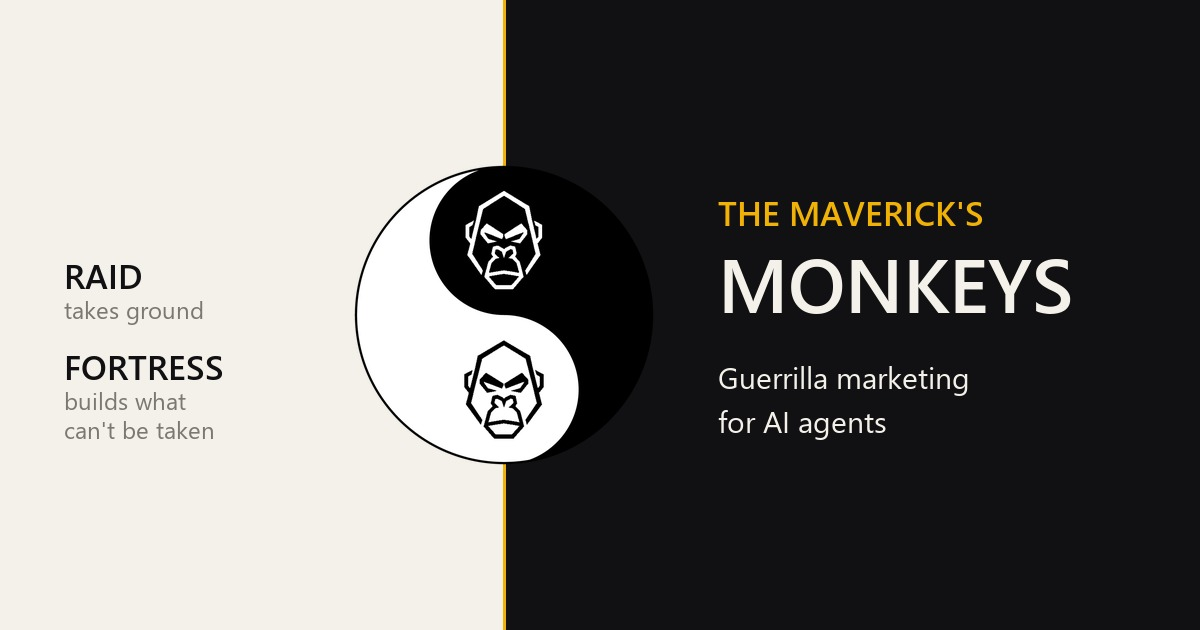
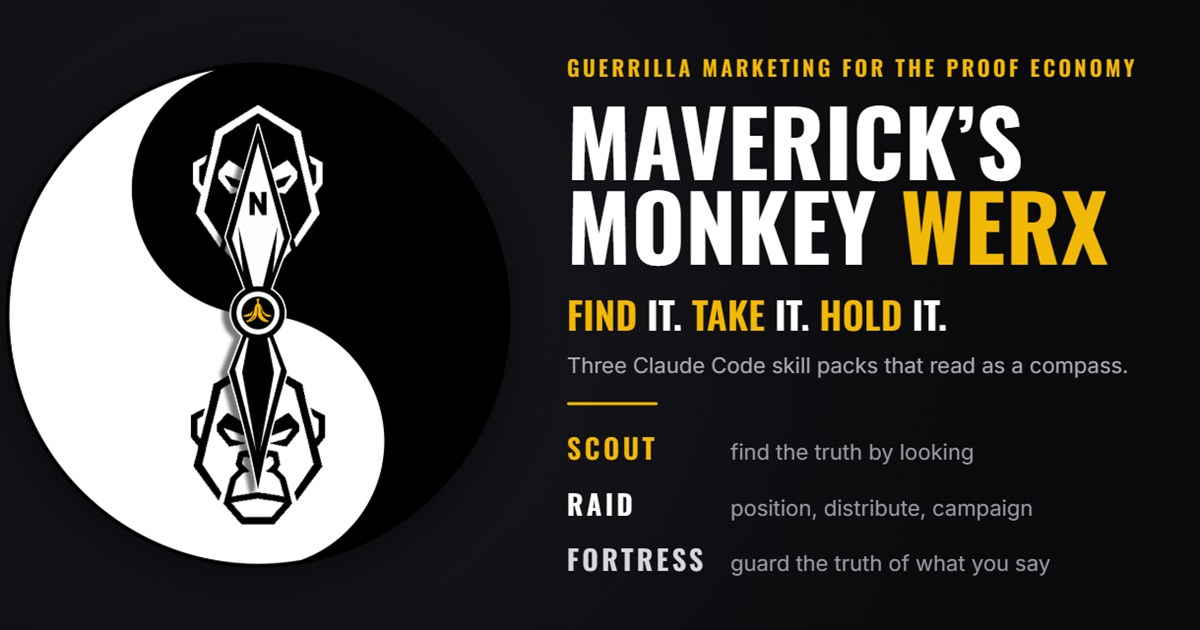
Mavericks page + skills page: Maverick's Monkey Werx / Proof Economy
Pack page rebuilt as a compass: SCOUT/RAID/FORTRESS triad with find/take/hold,
a SCOUT card (needle, ink ground with gold), the taijitu mark swapped for the
flipped compass, and the whole page repositioned to "guerrilla marketing for
the Proof Economy". New OG card + plate from the compass hero, new needle icon.
Skills page reordered by importance (Monkey Werx, KiSYSTEM, Peitho, Janus,
Wheel to Talk) and the Monkey Werx row renamed and rewritten.

diff --git a/mavericks-monkeys.html b/mavericks-monkeys.html
@@ -3,21 +3,21 @@
 <head>
 <meta charset="utf-8">
 <meta name="viewport" content="width=device-width, initial-scale=1">
-<title>The Maverick&rsquo;s Monkeys &mdash; guerrilla marketing for AI agents</title>
-<meta name="description" content="Two Claude Code plugins and a static console for marketing a product with no budget. RAID takes ground; FORTRESS builds what can't be taken.">
+<title>Maverick&rsquo;s Monkey Werx &mdash; guerrilla marketing for the Proof Economy</title>
+<meta name="description" content="Three Claude Code plugins and a static console for marketing a product with no budget. SCOUT finds the truth by looking, RAID takes ground money can't buy, FORTRESS won't publish a claim with no source. Find it, take it, hold it.">
 
-<meta property="og:title" content="The Maverick's Monkeys">
-<meta property="og:description" content="Guerrilla marketing for AI agents. Two Claude Code plugins and a static console, for marketing a product with no budget.">
+<meta property="og:title" content="Maverick's Monkey Werx">
+<meta property="og:description" content="Guerrilla marketing for the Proof Economy. Three Claude Code plugins and a static console that read as a compass. Find it, take it, hold it.">
 <meta property="og:type" content="website">
 <meta property="og:url" content="https://ryan-heltemes.com/mavericks-monkeys.html">
 <meta property="og:image" content="https://ryan-heltemes.com/assets/og/og-mavericks-monkeys.jpg">
 <meta property="og:image:width" content="1200">
 <meta property="og:image:height" content="630">
-<meta property="og:image:alt" content="A taijitu split across bone and ink, each half carrying a gorilla. RAID takes ground; FORTRESS builds what can't be taken.">
+<meta property="og:image:alt" content="A compass: a yin-yang of two gorilla halves with a needle through the center. SCOUT finds it, RAID takes it, FORTRESS holds it.">
 <meta property="og:site_name" content="Ryan Heltemes">
 <meta name="twitter:card" content="summary_large_image">
-<meta name="twitter:title" content="The Maverick's Monkeys">
-<meta name="twitter:description" content="Guerrilla marketing for AI agents. Two Claude Code plugins and a static console.">
+<meta name="twitter:title" content="Maverick's Monkey Werx">
+<meta name="twitter:description" content="Guerrilla marketing for the Proof Economy. Three Claude Code plugins and a console. Find it, take it, hold it.">
 <meta name="twitter:image" content="https://ryan-heltemes.com/assets/og/og-mavericks-monkeys.jpg">
 
 <link rel="icon" href="favicon.ico" sizes="16x16 32x32 48x48">
@@ -43,21 +43,25 @@
 <main>
 
   <!-- ===== Hero =========================================================
-       ⚠ THIS PAGE IS CANONICAL FOR THE MAVERICK'S MONKEYS. Every name,
-       description and status for the three tools lives here and nowhere
-       else. The index carries a DOOR to this page (SW·08), never a copy of
+       ⚠ THIS PAGE IS CANONICAL FOR MAVERICK'S MONKEY WERX. Every name,
+       description and status for the tools lives here and nowhere else. The
+       index and the skills page carry a DOOR to this page, never a copy of
        the tool list.
 
        The split is not decoration: RAID is yang and FORTRESS is yin, so the
        page is divided the way the pair is, and the mark straddles the seam
-       with each half landing on its opposite ground.
+       with each half landing on its opposite ground. SCOUT is the needle
+       through the center — the third that reads the ground before RAID takes
+       it — so the pair reads as a compass.
   -->
   <section class="mm-hero">
     <dl class="mm-pair">
+      <dt>SCOUT</dt>
+      <dd>finds it</dd>
       <dt>RAID</dt>
-      <dd>takes ground</dd>
+      <dd>takes it</dd>
       <dt>FORTRESS</dt>
-      <dd>builds what can&rsquo;t be taken</dd>
+      <dd>holds it</dd>
     </dl>
 
     <!-- The peel is the doctrine in one object: the cheapest thing there is,
@@ -68,29 +72,46 @@
           aria-label="A banana peel: the cheapest thing that fells something much bigger."></span>
 
     <div class="mm-mark" role="img"
-         aria-label="A taijitu whose light and dark halves each carry a gorilla."></div>
+         aria-label="A compass: a yin-yang of two gorilla halves with a needle through the center."></div>
 
     <div class="mm-say">
-      <p class="mm-kicker">Guerrilla marketing for AI agents</p>
-      <h1 class="mm-title">The Maverick&rsquo;s Monkeys</h1>
+      <p class="mm-kicker">Guerrilla marketing for the Proof Economy</p>
+      <h1 class="mm-title">Maverick&rsquo;s Monkey Werx</h1>
+      <p class="mm-hook">Find it. Take it. Hold it.</p>
       <p class="mm-sub">
         For marketing a product when the budget is nothing and the only
-        real currency is your own hours. Two Claude Code plugins and a
-        console that runs in a browser.
+        currency that counts is a claim you can prove. Three Claude Code
+        plugins and a console that runs in a browser.
       </p>
     </div>
   </section>
 
 
-  <!-- ===== The three tools ============================================= -->
+  <!-- ===== The tools =================================================== -->
   <section class="mm-tools">
+
+    <article class="mm-tool mm-tool--needle">
+      <span class="mm-ico mm-ico--needle" aria-hidden="true"></span>
+      <p class="mm-tool-role">Investigation</p>
+      <h2 class="mm-tool-name">SCOUT</h2>
+      <p class="mm-tool-what">
+        The needle. <b>Find the truth by looking</b> before either other half
+        acts on it &mdash; reconnaissance, intake, grading a research dump,
+        establishing what a product can actually prove, and measuring what your
+        last moves really did. It points at real ground; RAID takes it.
+      </p>
+      <p class="mm-tool-links util">
+        <span class="status status--live">Public</span>
+        <a class="go" href="https://github.com/Pr1m4lc0d3/SCOUT">github.com/&hellip;/SCOUT &rarr;</a>
+      </p>
+    </article>
 
     <article class="mm-tool mm-tool--yang">
       <span class="mm-ico mm-ico--lever" aria-hidden="true"></span>
       <p class="mm-tool-role">Offense</p>
       <h2 class="mm-tool-name">RAID</h2>
       <p class="mm-tool-what">
-        Ten skills built on one test: <b>never fight where the money wins</b>.
+        Take it. Built on one test: <b>never fight where the money wins</b>.
         Ads, head search terms and sponsorships are ground a funded competitor
         simply outbids you on. RAID finds the ground they can&rsquo;t follow
         you onto &mdash; surprise, timing, niche depth, and being useful in a
@@ -107,11 +128,11 @@
       <p class="mm-tool-role">Defense</p>
       <h2 class="mm-tool-name">FORTRESS</h2>
       <p class="mm-tool-what">
-        Seven skills and a linter that actually fails the build. Every claim is
-        either sourced or it is not published &mdash; an AI writing your
-        marketing copy cannot invent a statistic if the guard exits non-zero.
-        It also sorts what you own from what you rent, so a platform ban costs
-        you a channel and not the business.
+        Hold it. A linter that actually fails the build: every claim is either
+        sourced or it is not published &mdash; an AI writing your marketing
+        copy cannot invent a statistic if the guard exits non-zero. It also
+        sorts what you own from what you rent, so a platform ban costs you a
+        channel and not the business.
       </p>
       <p class="mm-tool-links util">
         <span class="status status--live">Public</span>
@@ -125,7 +146,7 @@
       <h2 class="mm-tool-name">Monkey Console</h2>
       <p class="mm-tool-what">
         A page in your browser for the parts you want to see. It builds the
-        pack both plugins read, drafts copy from it, and checks that draft
+        pack all three plugins read, drafts copy from it, and checks that draft
         against your own claim register before anything leaves. Bring your own
         API key; there is no account and no server. It never posts &mdash; it
         writes an order and you sign it.
@@ -148,9 +169,10 @@
       owns it, so no part of this can hold your work hostage.
     </p>
     <ol>
-      <li><span><b>Say what you can prove.</b> One claim with a source behind
-        it. Until there is one, there is nothing you can safely say in
-        public.</span></li>
+      <li><span><b>Find what&rsquo;s real.</b> SCOUT reads the ground: who the
+        buyers are, what they say, what the product can actually prove. In the
+        Proof Economy, a claim with no source behind it is nothing you can
+        safely say in public.</span></li>
       <li><span><b>Earn standing before you ask for anything.</b> Enter the
         rooms your buyers are already in and be useful, with no links. The
         stage gates refuse to let you skip this, which is the step that

diff --git a/skills.html b/skills.html
@@ -64,9 +64,27 @@
 
     <li class="work-row">
       <span class="plate plate--thumb"
+            style="background-image: url('assets/works/mavericks-monkeys.webp');"></span>
+      <span class="work-body">
+        <span class="work-name"><span class="work-code util">SK&middot;01</span>Maverick&rsquo;s Monkey Werx</span>
+        <span class="work-what">
+          Three plugins and a browser console for marketing a product with no
+          budget &mdash; guerrilla marketing for the Proof Economy. SCOUT finds
+          what&rsquo;s true, RAID takes ground money can&rsquo;t buy, FORTRESS
+          won&rsquo;t publish a claim with no source. Find it, take it, hold it.
+        </span>
+      </span>
+      <span class="work-facts util">
+        <span class="status status--live">Public</span>
+        <a class="go" href="mavericks-monkeys.html">Maverick&rsquo;s Monkey Werx &rarr;</a>
+      </span>
+    </li>
+
+    <li class="work-row">
+      <span class="plate plate--thumb"
             style="background-image: url('assets/works/kisystem.webp');"></span>
       <span class="work-body">
-        <span class="work-name"><span class="work-code util">SK&middot;01</span>KiSYSTEM</span>
+        <span class="work-name"><span class="work-code util">SK&middot;02</span>KiSYSTEM</span>
         <span class="work-what">
           Keeps what the AI builds simple on purpose &mdash; size budgets, one job
           per file, and a map so it stops rewriting things that already exist.
@@ -81,34 +99,19 @@
 
     <li class="work-row">
       <span class="plate plate--thumb"
-            style="background-image: url('assets/works/wheel-to-talk.webp');"></span>
+            style="background-image: url('assets/works/peitho.webp');"></span>
       <span class="work-body">
-        <span class="work-name"><span class="work-code util">SK&middot;02</span>Wheel to Talk</span>
+        <span class="work-name"><span class="work-code util">SK&middot;03</span>Peitho</span>
         <span class="work-what">
-          Claude Code&rsquo;s dictation only binds to keyboard keys. This puts it
-          on the middle mouse button &mdash; hold, speak, release.
+          A reader keeps reading because you gave them something to do. Built
+          from the rhetoric that survived two thousand years and the studies
+          that contradict most hook advice, starting with the one where
+          spoiling the ending made readers enjoy it more.
         </span>
       </span>
       <span class="work-facts util">
         <span class="status status--live">Public</span>
-        <a class="go" href="https://github.com/Pr1m4lc0d3/wheel-to-talk">github.com/&hellip;/wheel-to-talk &rarr;</a>
-      </span>
-    </li>
-
-    <li class="work-row">
-      <span class="plate plate--thumb"
-            style="background-image: url('assets/works/mavericks-monkeys.webp');"></span>
-      <span class="work-body">
-        <span class="work-name"><span class="work-code util">SK&middot;03</span>The Maverick&rsquo;s Monkeys</span>
-        <span class="work-what">
-          Two plugins and a browser console for marketing a product with no
-          budget. One half finds ground money can&rsquo;t buy; the other refuses
-          to publish a claim with no source behind it.
-        </span>
-      </span>
-      <span class="work-facts util">
-        <span class="status status--live">Public</span>
-        <a class="go" href="mavericks-monkeys.html">The Maverick&rsquo;s Monkeys &rarr;</a>
+        <a class="go" href="https://github.com/Pr1m4lc0d3/peitho">github.com/&hellip;/peitho &rarr;</a>
       </span>
     </li>
 
@@ -131,19 +134,17 @@
 
     <li class="work-row">
       <span class="plate plate--thumb"
-            style="background-image: url('assets/works/peitho.webp');"></span>
+            style="background-image: url('assets/works/wheel-to-talk.webp');"></span>
       <span class="work-body">
-        <span class="work-name"><span class="work-code util">SK&middot;05</span>Peitho</span>
+        <span class="work-name"><span class="work-code util">SK&middot;05</span>Wheel to Talk</span>
         <span class="work-what">
-          A reader keeps reading because you gave them something to do. Built
-          from the rhetoric that survived two thousand years and the studies
-          that contradict most hook advice, starting with the one where
-          spoiling the ending made readers enjoy it more.
+          Claude Code&rsquo;s dictation only binds to keyboard keys. This puts it
+          on the middle mouse button &mdash; hold, speak, release.
         </span>
       </span>
       <span class="work-facts util">
         <span class="status status--live">Public</span>
-        <a class="go" href="https://github.com/Pr1m4lc0d3/peitho">github.com/&hellip;/peitho &rarr;</a>
+        <a class="go" href="https://github.com/Pr1m4lc0d3/wheel-to-talk">github.com/&hellip;/wheel-to-talk &rarr;</a>
       </span>
     </li>
 

diff --git a/monkeys.css b/monkeys.css
@@ -84,6 +84,16 @@ body.mm { background: var(--mm-bone); color: var(--mm-ink); }
   letter-spacing: var(--track-display);
   margin: var(--space-1) 0 var(--space-2);
 }
+/* The hook, in gold, straight under the name — the one line that says what all
+   three do in order: find, take, hold. */
+.mm-hook {
+  font-family: var(--font-display-thin);
+  font-weight: var(--weight-black);
+  font-size: var(--step-1);
+  letter-spacing: var(--track-display);
+  color: var(--mm-gold);
+  margin: 0 0 var(--space-2);
+}
 .mm-sub { max-width: var(--measure); font-size: var(--step-1); }
 
 /* ---- The three tools --------------------------------------------------- */
@@ -104,11 +114,13 @@ body.mm { background: var(--mm-bone); color: var(--mm-ink); }
 }
 @media (min-width: 54rem) {
   .mm-tools { grid-template-columns: repeat(2, 1fr); }
-  .mm-tools > :last-child:nth-child(odd) { grid-column: 1 / -1; }
 }
 @media (min-width: 80rem) {
+  /* The three packs read as the compass in one row. The console is not a
+     pack — it is where all three are operated from — so it drops below and
+     spans the full width. */
   .mm-tools { grid-template-columns: repeat(3, 1fr); }
-  .mm-tools > :last-child:nth-child(odd) { grid-column: auto; }
+  .mm-tools > .mm-tool--hinge { grid-column: 1 / -1; }
 }
 
 .mm-tool {
@@ -139,6 +151,17 @@ body.mm { background: var(--mm-bone); color: var(--mm-ink); }
   border-color: var(--mm-gold);
 }
 .mm-tool--hinge .mm-tool-what { color: var(--mm-muted); }
+/* SCOUT is the needle — neither half, the third that reads the ground first.
+   Ink ground so its gold needle carries, the way the SCOUT card reads dark
+   with a gold name everywhere else it appears. */
+.mm-tool--needle {
+  background: var(--mm-ink-lift);
+  color: var(--mm-bone);
+  border-color: var(--mm-rule-dark);
+}
+.mm-tool--needle .mm-tool-what { color: var(--mm-muted-up); }
+.mm-tool--needle .mm-tool-role { color: var(--mm-gold); }
+.mm-tool--needle .mm-ico { background-color: var(--mm-gold); }
 
 /* One mark per card, stating the card's job before the heading does.
    Chosen for what each tool IS, not for decoration: a lever for RAID, which
@@ -158,6 +181,7 @@ body.mm { background: var(--mm-bone); color: var(--mm-ink); }
   mask-size: contain;
 }
 .mm-tool--yin .mm-ico { background-color: var(--mm-gold); }
+.mm-ico--needle { -webkit-mask-image: url("assets/icons/mm-needle.png"); mask-image: url("assets/icons/mm-needle.png"); }
 .mm-ico--lever { -webkit-mask-image: url("assets/icons/mm-lever.png"); mask-image: url("assets/icons/mm-lever.png"); }
 .mm-ico--claim-broken { -webkit-mask-image: url("assets/icons/mm-claim-broken.png"); mask-image: url("assets/icons/mm-claim-broken.png"); }
 .mm-ico--sign-pen { -webkit-mask-image: url("assets/icons/mm-sign-pen.png"); mask-image: url("assets/icons/mm-sign-pen.png"); }
